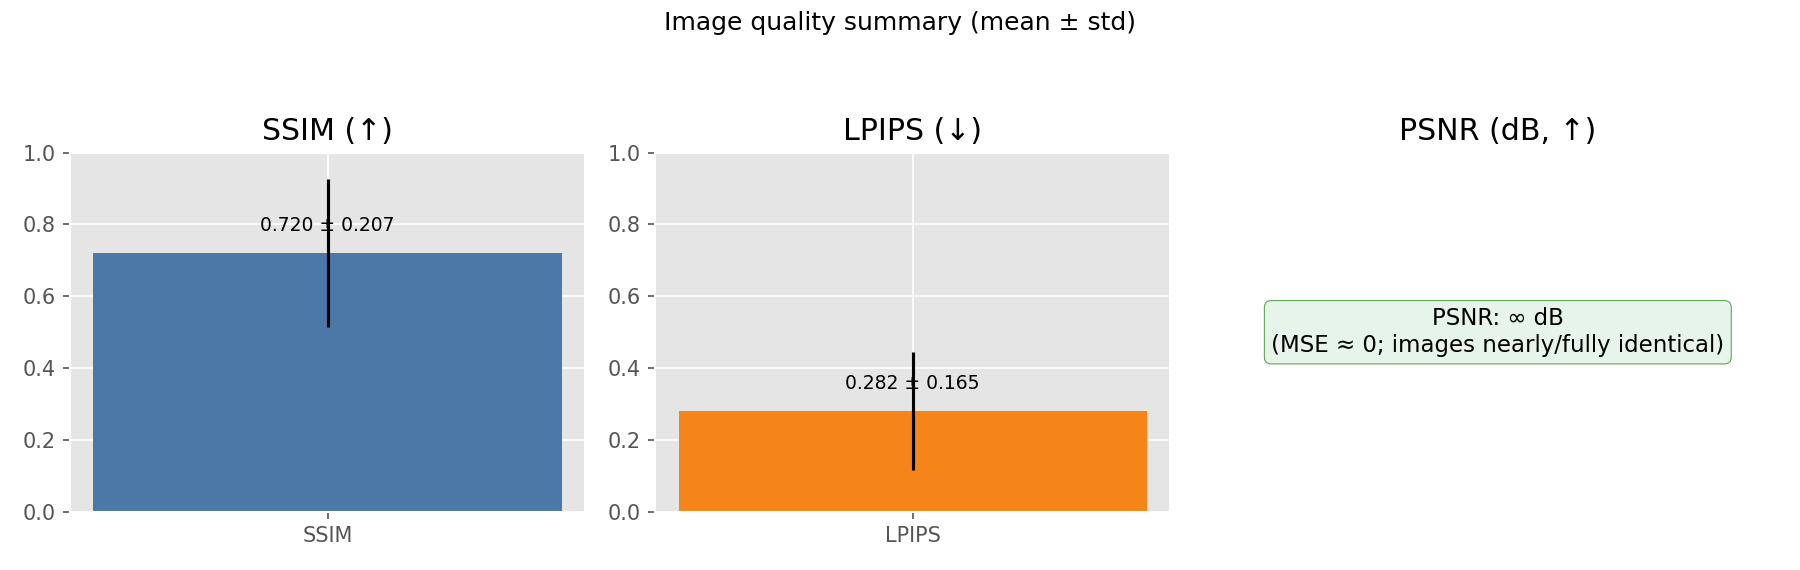
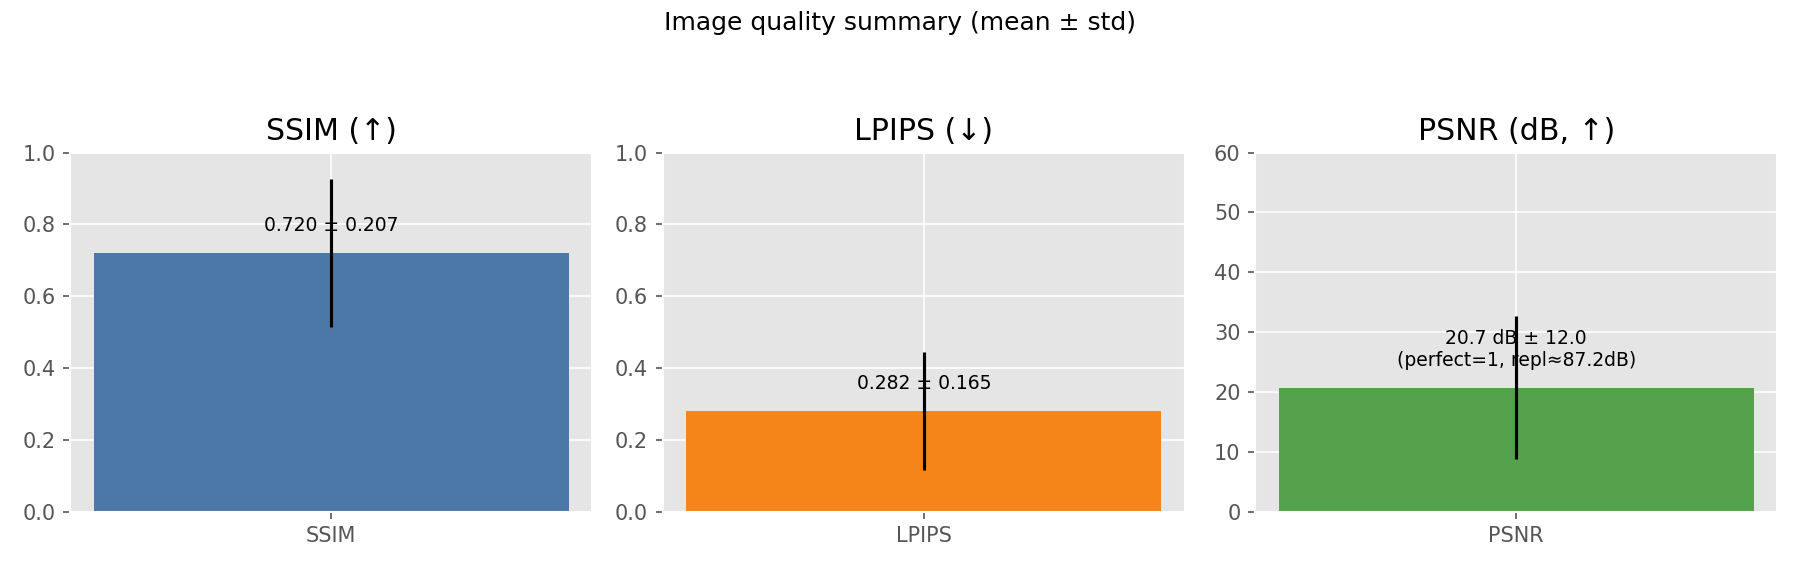
feat(plots): annotate PSNR summary with perfect-match count and imputation value; regenerate image_quality_summary_bars.png

diff --git a/src/quality/image_quality_plots.py b/src/quality/image_quality_plots.py
@@ -20,7 +20,19 @@ def _load_summary(path: str) -> tuple[pd.Series, pd.Series]:
 
 def plot_image_quality_summary():
     path = os.path.join(TABLES_DIR, 'image_quality_summary.csv')
+    meta_path = os.path.join(TABLES_DIR, 'image_quality_summary_meta.csv')
     mean, std = _load_summary(path)
+
+    inf_count = None
+    replacement = None
+    if os.path.exists(meta_path):
+        try:
+            meta = pd.read_csv(meta_path)
+            inf_count = int(meta.get('psnr_inf_count', pd.Series([np.nan])).iloc[0])
+            replacement = float(meta.get('psnr_inf_replacement', pd.Series([np.nan])).iloc[0])
+        except Exception:
+            inf_count = None
+            replacement = None
 
     psnr_m = float(mean.get('psnr', np.nan))
     psnr_s = float(std.get('psnr', np.nan))
@@ -46,17 +58,26 @@ def plot_image_quality_summary():
     ax.text(0, min(0.98, lpips_m + 0.05), f"{lpips_m:.3f}" + (f" ± {lpips_s:.3f}" if not np.isnan(lpips_s) else ''), ha='center', va='bottom', fontsize=9)
 
     ax = axes[2]
+    ylim = (0, 60)
     if np.isfinite(psnr_m):
-        ylim = (0, 60)
         ax.bar([0], [min(psnr_m, ylim[1])], yerr=None if np.isnan(psnr_s) else [psnr_s], color='#54A24B', width=0.6)
         ax.set_ylim(*ylim)
-        label = f"{psnr_m:.1f} dB" + (f" ± {psnr_s:.1f}" if not np.isnan(psnr_s) else '')
-        ax.text(0, min(ylim[1]-3, (min(psnr_m, ylim[1]) + 3)), label, ha='center', va='bottom', fontsize=9)
+        base_label = f"{psnr_m:.1f} dB" + (f" ± {psnr_s:.1f}" if not np.isnan(psnr_s) else '')
+        extra = ''
+        if inf_count is not None and inf_count > 0:
+            # Show how many perfect matches and what replacement was used
+            if replacement is not None and np.isfinite(replacement):
+                extra = f"\n(perfect={inf_count}, repl≈{replacement:.1f}dB)"
+            else:
+                extra = f"\n(perfect={inf_count})"
+        ax.text(0, min(ylim[1]-3, (min(psnr_m, ylim[1]) + 3)), base_label + extra, ha='center', va='bottom', fontsize=9)
         ax.set_xticks([0]); ax.set_xticklabels(['PSNR'])
         ax.set_title('PSNR (dB, ↑)')
     else:
         ax.axis('off')
         text = 'PSNR: ∞ dB\n(MSE ≈ 0; images nearly/fully identical)'
+        if inf_count is not None:
+            text += f"\n(perfect={inf_count})"
         ax.text(0.5, 0.5, text, ha='center', va='center', fontsize=11, bbox=dict(boxstyle='round', facecolor='#e6f4ea', edgecolor='#54A24B'))
         ax.set_title('PSNR (dB, ↑)')
 
